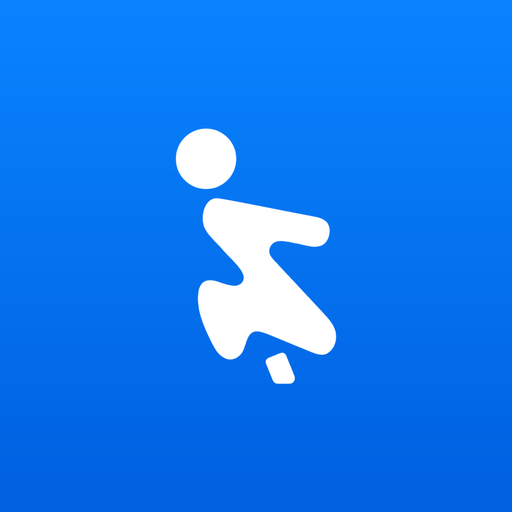
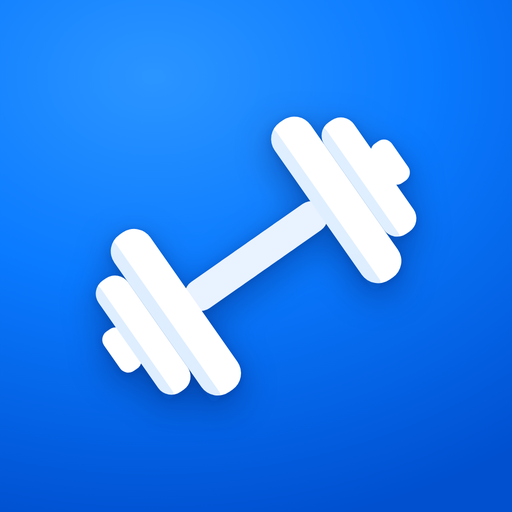
Nouvelle icône (haltère inclinée), animation de lancement assortie, notes permanentes par exercice, planche : 7 s pour changer de côté
Claude-Session: https://claude.ai/code/session_01EZbwpirju8Zs7zQQ7jhSi9

Changed region(s): [[0.125, 0.0312, 0.8125, 0.8125]]

diff --git a/app.js b/app.js
@@ -33,6 +33,7 @@ const ICON = {
   gear: '<svg viewBox="0 0 24 24" width="20" height="20" fill="none" stroke="currentColor" stroke-width="2" stroke-linecap="round" stroke-linejoin="round"><circle cx="12" cy="12" r="3"/><path d="M19.4 15a1.7 1.7 0 0 0 .3 1.8l.1.1a2 2 0 1 1-2.8 2.8l-.1-.1a1.7 1.7 0 0 0-1.8-.3 1.7 1.7 0 0 0-1 1.5V21a2 2 0 1 1-4 0v-.1a1.7 1.7 0 0 0-1.1-1.5 1.7 1.7 0 0 0-1.8.3l-.1.1a2 2 0 1 1-2.8-2.8l.1-.1a1.7 1.7 0 0 0 .3-1.8 1.7 1.7 0 0 0-1.5-1H3a2 2 0 1 1 0-4h.1a1.7 1.7 0 0 0 1.5-1.1 1.7 1.7 0 0 0-.3-1.8l-.1-.1a2 2 0 1 1 2.8-2.8l.1.1a1.7 1.7 0 0 0 1.8.3H9a1.7 1.7 0 0 0 1-1.5V3a2 2 0 1 1 4 0v.1a1.7 1.7 0 0 0 1 1.5 1.7 1.7 0 0 0 1.8-.3l.1-.1a2 2 0 1 1 2.8 2.8l-.1.1a1.7 1.7 0 0 0-.3 1.8V9a1.7 1.7 0 0 0 1.5 1H21a2 2 0 1 1 0 4h-.1a1.7 1.7 0 0 0-1.5 1z"/></svg>',
   plates: '<svg viewBox="0 0 24 24" width="22" height="22" fill="none" stroke="currentColor" stroke-width="2" stroke-linecap="round"><path d="M2 12h20"/><rect x="5" y="5" width="3" height="14" rx="1"/><rect x="16" y="5" width="3" height="14" rx="1"/><rect x="8.5" y="8" width="2" height="8" rx="1"/><rect x="13.5" y="8" width="2" height="8" rx="1"/></svg>',
   more: '<svg viewBox="0 0 24 24" width="22" height="22" fill="currentColor"><circle cx="5.5" cy="12" r="1.9"/><circle cx="12" cy="12" r="1.9"/><circle cx="18.5" cy="12" r="1.9"/></svg>',
+  note: '<svg viewBox="0 0 24 24" width="21" height="21" fill="none" stroke="currentColor" stroke-width="1.8" stroke-linecap="round" stroke-linejoin="round"><path d="M20 12.5c0 3.9-3.6 7-8 7-1.1 0-2.2-.2-3.1-.6L4.5 20l1.2-3.4C4.6 15.4 4 14 4 12.5c0-3.9 3.6-7 8-7s8 3.1 8 7z"/><path d="M8.5 11h7M8.5 14h4.5"/></svg>',
   stopwatch: '<svg viewBox="0 0 24 24" width="20" height="20" fill="none" stroke="currentColor" stroke-width="2" stroke-linecap="round" stroke-linejoin="round"><circle cx="12" cy="13.5" r="7.5"/><path d="M12 13.5V10M10 2.5h4M18.5 6.5l1.2-1.2"/></svg>',
   clock: '<svg viewBox="0 0 24 24" width="22" height="22" fill="none" stroke="currentColor" stroke-width="1.8" stroke-linecap="round" stroke-linejoin="round"><circle cx="12" cy="12" r="8.5"/><path d="M12 7.5V12l3 2"/></svg>',
   x: '<svg viewBox="0 0 24 24" width="16" height="16" fill="none" stroke="currentColor" stroke-width="2.6" stroke-linecap="round"><path d="M6 6l12 12M18 6L6 18"/></svg>',
@@ -67,7 +68,7 @@ const Store = {
 
 // ---------- État ----------
 function defaultState() {
-  return { v: 2, settings: { rest: 90, theme: 'auto', bar: 20, iosTimer: false }, programs: [], activeProgramId: null, customExercises: [], sessions: [], live: null, checks: [], coachVersion: 0 };
+  return { v: 2, exNotes: {}, settings: { rest: 90, theme: 'auto', bar: 20, iosTimer: false }, programs: [], activeProgramId: null, customExercises: [], sessions: [], live: null, checks: [], coachVersion: 0 };
 }
 let S = defaultState();
 // Petite vibration au toucher. iPhone (iOS 18+) : on « touche » un interrupteur invisible, ce qui fait vibrer.
@@ -95,7 +96,7 @@ function celebrate() {
   document.body.appendChild(box); setTimeout(() => box.remove(), 1800);
 }
 // Version de l'appli : doit être la même que VERSION dans sw.js
-const APP_VERSION = 'husofit-v84';
+const APP_VERSION = 'husofit-v85';
 // Mise à jour automatique : si une nouvelle version est en ligne, l'appli se recharge toute seule (données gardées)
 function checkUpdate() {
   if (!/^https?:/.test(location.protocol)) return;
@@ -117,7 +118,7 @@ function save(now = false) { pushSync(); clearTimeout(saveTimer); if (now) retur
 // Passage de l'ancienne version (nutrition, habitudes…) à la version simplifiée
 function migrate(old) {
   const s = defaultState();
-  ['programs', 'activeProgramId', 'customExercises', 'sessions', 'live', 'checks', 'coachVersion'].forEach((k) => { if (old[k] !== undefined && old[k] !== null) s[k] = old[k]; });
+  ['programs', 'activeProgramId', 'customExercises', 'sessions', 'live', 'checks', 'coachVersion', 'exNotes'].forEach((k) => { if (old[k] !== undefined && old[k] !== null) s[k] = old[k]; });
   s.live = old.live || null;
   s.settings = Object.assign(defaultState().settings, old.settings || {});
   if (old.v !== 2) {
@@ -283,6 +284,11 @@ function aiSummaryText() {
   if (ids.length) {
     L.push('PROGRESSION (meilleure série : première fois → dernière fois)');
     ids.forEach((id) => { const a = per[id][0], b = per[id][per[id].length - 1]; L.push(`- ${exById(id).name} : ${kgs(a.kg)} kg × ${a.reps} (${d(a.date)}) → ${kgs(b.kg)} kg × ${b.reps} (${d(b.date)}), ${per[id].length} séance${per[id].length > 1 ? 's' : ''}`); });
+  }
+  const withNotes = Object.keys(S.exNotes || {}).filter((id) => (S.exNotes[id] || []).length);
+  if (withNotes.length) {
+    L.push(''); L.push('MES NOTES PAR EXERCICE');
+    withNotes.forEach((id) => notesFor(id).forEach((n) => L.push(`- ${exById(id).name} (${new Date(n.at).toLocaleDateString('fr-FR')}) : ${n.text.replace(/\s+/g, ' ')}`)));
   }
   return L.join('\n');
 }
@@ -792,7 +798,7 @@ function liveCircuit(idx) {
       const phR = prev ? prev.reps : k > 0 && e.sets[k - 1].reps !== '' ? e.sets[k - 1].reps : (e.repsT || '');
       const h = holdOf(e);
       const meta = h ? (h.sides > 1 ? 'chaque côté' : '') : cleanNote(e.note);
-      html += `<div class="tour-ex"><div class="tour-name"><button class="tn" data-a="exHist" data-e="${i}">${esc(ex.name)}</button>${meta ? `<span class="tm">${esc(meta)}</span>` : ''}${h && !s.done ? `<button class="tour-hold" data-a="holdStart" data-e="${i}" data-s="${k}" aria-label="Lancer le chrono">${ICON.stopwatch}${h.hold} s</button>` : ''}</div>
+      html += `<div class="tour-ex"><div class="tour-name"><button class="tn" data-a="exHist" data-e="${i}">${esc(ex.name)}</button>${noteBtn(e.exId, true)}${meta ? `<span class="tm">${esc(meta)}</span>` : ''}${h && !s.done ? `<button class="tour-hold" data-a="holdStart" data-e="${i}" data-s="${k}" aria-label="Lancer le chrono">${ICON.stopwatch}${h.hold} s</button>` : ''}</div>
         <div class="uf-row${s.done ? ' done' : ''}">
           <label class="uf"><input type="text" inputmode="numeric" id="ls-${i}-${k}-reps" value="${esc(s.reps)}" placeholder="${esc(phR)}" data-in="liveSet" data-e="${i}" data-s="${k}" data-f="reps" aria-label="${h ? 'Secondes' : 'Répétitions'} ${esc(ex.name)} tour ${k + 1}"><span class="u">${h ? 's' : 'reps'}</span></label>
           ${`<label class="uf"><input type="text" inputmode="decimal" id="ls-${i}-${k}-kg" value="${esc(s.kg)}" placeholder="${esc(phKg)}" data-in="liveSet" data-e="${i}" data-s="${k}" data-f="kg" aria-label="Charge ${esc(ex.name)} tour ${k + 1}"><span class="u">kg</span></label>`}
@@ -824,9 +830,12 @@ function liveExCard(e, i) {
   const lastKg = prev.length ? Math.max(...prev.map((x) => num(x.kg) || 0)) : 0;
   const showKg = lastKg || e.kg;
   const meta = [e.target ? esc(e.target) : '', showKg ? `<b>${nf(showKg, 2)} kg</b>` : '', note ? esc(note) : ''].filter(Boolean).join(' · ');
+  const notes = notesFor(e.exId), lastNote = notes[0];
   return `<div class="exc" data-ex="${i}"><div class="hd">${exIcon(ex)}<div class="grow"><h3>${esc(ex.name)}</h3>${meta ? `<div class="meta">${meta}</div>` : ''}</div>
+      ${noteBtn(e.exId)}
       <button class="icon-btn plain" data-a="exHist" data-e="${i}" aria-label="Historique et options">${ICON.clock}</button>
       ${allDone ? `<button class="icon-btn plain" data-a="liveCollapse" data-e="${i}" aria-label="Réduire">${ICON.up}</button>` : ''}</div>
+    ${lastNote ? `<button class="ex-note" data-a="exNotes" data-x="${e.exId}">${ICON.note}<span>${esc(lastNote.text)}</span></button>` : ''}
     <div class="sets uf-sets">${rows}</div>
     ${holdOf(e) && !allDone ? `<button class="btn hold-btn" data-a="holdStart" data-e="${i}">${ICON.stopwatch}Chrono ${holdOf(e).hold} s${holdOf(e).sides > 1 ? ' de chaque côté' : ''}</button>` : ''}
     <button class="link small" data-a="liveAddSet" data-e="${i}" style="align-self:flex-start;padding:0">+ Ajouter une série</button></div>`;
@@ -839,12 +848,45 @@ function exHistSheet(i) {
     render: () => `${sheetHead(esc(ex.name))}
       ${h.length ? `<div class="group">${h.map((x) => cell({ t: fmtShort(x.date), s: x.sets.map((s) => `${s.reps} × ${nf(s.kg, 2)} kg`).join('<br>'), chev: false })).join('')}</div>` : '<div class="empty" style="text-align:center">Pas encore d’historique pour cet exercice.</div>'}
       <div class="group">
+        ${cell({ a: 'exNotes', data: `data-x="${e.exId}"`, t: 'Notes', v: notesFor(e.exId).length ? String(notesFor(e.exId).length) : '' })}
         ${cell({ a: 'platesLive', data: `data-e="${i}"`, t: 'Disques à charger' })}
         ${e.sets.length > 1 ? cell({ a: 'liveDelSet', data: `data-e="${i}"`, t: 'Retirer la dernière série', chev: false }) : ''}
         <button class="cell danger" data-a="liveRemoveEx" data-e="${i}">Retirer de la séance</button>
       </div>`,
   });
 }
+
+// ---------- Notes par exercice : elles restent pour toujours, d'une séance à l'autre ----------
+function notesFor(exId) { return ((S.exNotes || {})[exId] || []).slice().sort((a, b) => b.at - a.at); }
+function noteBtn(exId, small = false) {
+  const n = notesFor(exId).length;
+  return `<button class="icon-btn plain note-btn${n ? ' has' : ''}${small ? ' sm' : ''}" data-a="exNotes" data-x="${exId}" aria-label="Notes${n ? ` (${n})` : ''}">${ICON.note}${n ? `<span class="nb">${n}</span>` : ''}</button>`;
+}
+const fmtNoteDate = (ms) => new Date(ms).toLocaleDateString('fr-FR', { day: 'numeric', month: 'short', year: 'numeric' });
+function notesSheet(exId) {
+  const ex = exById(exId);
+  openSheet({
+    exId,
+    render: () => {
+      const list = notesFor(exId);
+      return `${sheetHead(esc(ex.name))}
+        <div class="note-new"><textarea id="note-new" rows="3" placeholder="Un détail à ne pas oublier : réglage de la machine, placement, sensation…"></textarea>
+        <button class="btn filled block" data-a="noteAdd">Ajouter la note</button></div>
+        ${list.length ? `<div class="section"><div class="section-h">${list.length} note${list.length > 1 ? 's' : ''}</div><div class="group">${list.map((n) => `<button class="cell note-cell" data-a="noteEdit" data-x="${exId}" data-id="${n.id}"><span class="main"><span class="t note-t">${esc(n.text)}</span><span class="s">${fmtNoteDate(n.at)}</span></span></button>`).join('')}</div><div class="section-f">Touche une note pour la modifier ou la supprimer.</div></div>` : '<div class="empty">Pas encore de note pour cet exercice.</div>'}`;
+    },
+  });
+}
+function noteEditSheet(exId, id) {
+  const n = ((S.exNotes || {})[exId] || []).find((x) => x.id === id); if (!n) return;
+  openSheet({
+    exId, noteId: id,
+    render: () => `${sheetHead('Modifier la note')}
+      <div class="note-new"><textarea id="note-edit" rows="5">${esc(n.text)}</textarea>
+      <button class="btn filled block" data-a="noteSave">Enregistrer</button></div>
+      <div class="group"><button class="cell danger" data-a="noteDel">Supprimer la note</button></div>`,
+  });
+}
+function notesChanged() { save(); if (S.live && ui.liveOpen) renderLive(); }
 
 let liveLeaveT = null;
 // Fenêtres du bas : glisser vers le bas pour fermer, comme sur iPhone (depuis la poignée, le titre, ou le haut de la liste)
@@ -1093,7 +1135,7 @@ function holdOf(e) {
   }
   return h ? { hold: h, sides: sides || 1 } : null;
 }
-const SWITCH_SEC = 5;
+const SWITCH_SEC = 7;
 let hold = null, holdTick = null;
 function speak(txt) {
   try { const u = new SpeechSynthesisUtterance(txt); u.lang = 'fr-FR'; u.rate = 1.05; speechSynthesis.cancel(); speechSynthesis.speak(u); } catch (e) { /* rien */ }
@@ -1252,7 +1294,7 @@ function daySheet(dayId) {
     render() {
       const dy = this.dy; if (!dy) return sheetHead('');
       return `${sheetHead(esc(dy.name), '<button class="link b" data-a="dayEdit">Modifier</button>')}
-        <div class="day-pills">${groupAbs(dy.exercises, (e) => `<div class="cell day-row ex-row">${exIcon(exById(e.exId))}<span class="main"><span class="t">${esc(exById(e.exId).name)}</span></span></div>`) || '<div class="empty">Aucun exercice.</div>'}</div>
+        <div class="day-pills">${groupAbs(dy.exercises, (e) => `<button class="cell day-row ex-row" data-a="exNotes" data-x="${e.exId}">${exIcon(exById(e.exId))}<span class="main"><span class="t">${esc(exById(e.exId).name)}</span>${notesFor(e.exId)[0] ? `<span class="s ex-row-note">${esc(notesFor(e.exId)[0].text)}</span>` : ''}</span><span class="row-note${notesFor(e.exId).length ? ' has' : ''}">${ICON.note}${notesFor(e.exId).length ? `<b>${notesFor(e.exId).length}</b>` : ''}</span></button>`) || '<div class="empty">Aucun exercice.</div>'}</div>
         <button class="btn filled block" data-a="startWorkout" data-p="${activeProgram().id}" data-d="${dy.id}">${ICON.play} Commencer</button>`;
     },
   });
@@ -1577,6 +1619,27 @@ const A = {
   progRename() { const p = activeProgram(); textSheet({ title: 'Renommer', label: 'Nom', value: p.name, onOk: (v) => { p.name = v; save(); closeAllSheets(); render(); } }); },
   progDelete() { const p = activeProgram(); confirmSheet({ title: `Supprimer « ${esc(p.name)} » ?`, text: 'Tes séances passées restent dans l’historique.', onOk: () => { S.programs = S.programs.filter((x) => x.id !== p.id); S.activeProgramId = S.programs[0] ? S.programs[0].id : null; save(); closeAllSheets(); render(); } }); },
   sessionOpen(el) { sessionSheet(el.dataset.id); },
+  exNotes(el) { notesSheet(el.dataset.x); },
+  noteAdd() {
+    const ta = $('#note-new'), text = ta ? ta.value.trim() : ''; if (!text) { if (ta) ta.focus(); return; }
+    const exId = topSheet().exId; S.exNotes = S.exNotes || {};
+    (S.exNotes[exId] = S.exNotes[exId] || []).push({ id: uid(), text, at: Date.now() });
+    haptic(); notesChanged(); paintSheet(); toast('Note ajoutée');
+  },
+  noteEdit(el) { noteEditSheet(el.dataset.x, el.dataset.id); },
+  noteSave() {
+    const sh = topSheet(), ta = $('#note-edit'), text = ta ? ta.value.trim() : '';
+    const n = (S.exNotes[sh.exId] || []).find((x) => x.id === sh.noteId); if (!n) return;
+    if (!text) { A.noteDel(); return; }
+    n.text = text; notesChanged(); closeSheet(); paintSheet(); toast('Note modifiée');
+  },
+  noteDel() {
+    const sh = topSheet();
+    confirmSheet({ title: 'Supprimer la note ?', text: 'Elle sera effacée pour de bon.', ok: 'Supprimer', onOk: () => {
+      S.exNotes[sh.exId] = (S.exNotes[sh.exId] || []).filter((x) => x.id !== sh.noteId);
+      notesChanged(); closeSheet(); paintSheet(); toast('Note supprimée');
+    } });
+  },
   calNav(el) {
     const [y, mo] = (ui.calMonth || dkey().slice(0, 7)).split('-').map(Number);
     const d = new Date(y, mo - 1 + Number(el.dataset.v), 1);

diff --git a/styles.css b/styles.css
@@ -1029,3 +1029,29 @@ button.cal-d:active { transform: scale(.92); }
 .tp-ring .bg { stroke: color-mix(in srgb, var(--label) 13%, transparent); }
 
 
+
+/* ---------- Notes par exercice ---------- */
+.note-btn { position: relative; }
+.note-btn.has { color: var(--blue); }
+.note-btn .nb { position: absolute; top: 1px; right: 0; min-width: 16px; height: 16px; padding: 0 4px; border-radius: 8px; background: var(--blue); color: #fff;
+  font-size: 10.5px; font-weight: 700; line-height: 16px; text-align: center; font-variant-numeric: tabular-nums; }
+.note-btn.sm { width: 28px; height: 28px; min-width: 28px; padding: 0; flex-shrink: 0; align-self: center; }
+.note-btn.sm svg { width: 18px; height: 18px; }
+.note-btn.sm .nb { top: -3px; right: -4px; transform: scale(.9); }
+.ex-note { display: flex; align-items: flex-start; gap: 8px; width: 100%; text-align: left; border: 0; font: inherit; cursor: pointer;
+  padding: 9px 12px; border-radius: 12px; background: color-mix(in srgb, #ffd60a 13%, transparent); color: var(--label); font-size: 14px; line-height: 1.35; }
+.ex-note svg { flex-shrink: 0; width: 17px; height: 17px; margin-top: 1px; color: #e0a800; }
+.ex-note span { display: -webkit-box; -webkit-line-clamp: 2; -webkit-box-orient: vertical; overflow: hidden; white-space: pre-wrap; }
+.note-new { display: flex; flex-direction: column; gap: 10px; }
+.note-new textarea { width: 100%; box-sizing: border-box; resize: none; border: 0; outline: none; border-radius: 14px; padding: 12px 14px;
+  background: var(--card); color: var(--label); font: inherit; font-size: 16px; line-height: 1.4; box-shadow: inset 0 0 0 1px var(--sep); }
+.note-new textarea:focus { box-shadow: inset 0 0 0 2px var(--blue); }
+.note-cell { text-align: left; width: 100%; }
+.note-t { white-space: pre-wrap; display: block; line-height: 1.35; }
+button.ex-row { width: 100%; text-align: left; font: inherit; color: inherit; cursor: pointer; }
+.ex-row .ex-row-note { display: block; font-size: 13px; color: var(--label-2); white-space: nowrap; overflow: hidden; text-overflow: ellipsis; max-width: 100%; }
+.ex-row .main { min-width: 0; }
+.row-note { margin-left: auto; display: inline-flex; align-items: center; gap: 3px; color: var(--label-3, rgba(127,127,127,.4)); flex-shrink: 0; font-size: 13px; }
+.row-note svg { width: 19px; height: 19px; }
+.row-note.has { color: var(--blue); }
+.note-btn:not(.has) { color: var(--label-2) !important; }

diff --git a/index.html b/index.html
@@ -30,23 +30,23 @@
 /* Animation de lancement : le personnage fait une flexion, saute, puis l'écran bleu s'efface sur l'appli */
 #intro { position: fixed; inset: 0; z-index: 1000; pointer-events: none; background: linear-gradient(180deg, #0a84ff, #0060e0);
   display: flex; align-items: center; justify-content: center; animation: intro-out .38s cubic-bezier(.4,0,.2,1) .9s forwards; }
-#intro i { display: block; height: 30vmin; aspect-ratio: 1120 / 1728; background: #fff;
-  -webkit-mask: url('icons/logo.png') center / contain no-repeat; mask: url('icons/logo.png') center / contain no-repeat;
-  transform-origin: 50% 100%; animation: intro-jump .9s cubic-bezier(.33,.9,.4,1) both; }
-@keyframes intro-jump {
-  0%, 16% { transform: none; }
-  34% { transform: translateY(3%) scale(1.07, .86); }
-  58% { transform: translateY(-17%) scale(.96, 1.06); }
-  76% { transform: translateY(0) scale(1.04, .95); }
+#intro img { display: block; width: 52vmin; transform-origin: 50% 55%; filter: drop-shadow(0 2.5vmin 4vmin rgba(0,20,80,.3));
+  animation: intro-lift .9s cubic-bezier(.33,.9,.4,1) both; }
+/* L'haltère descend un peu, puis elle est soulevée d'un coup, et se repose */
+@keyframes intro-lift {
+  0%, 14% { transform: none; }
+  34% { transform: translateY(5%) rotate(7deg) scale(.97); }
+  60% { transform: translateY(-13%) rotate(-9deg) scale(1.05); }
+  78% { transform: translateY(0) rotate(2deg) scale(1); }
   100% { transform: none; }
 }
 @keyframes intro-out { to { opacity: 0; transform: scale(1.08); } }
-@media (prefers-reduced-motion: reduce) { #intro { animation: intro-out .3s ease .35s forwards !important; } #intro i { animation: none !important; } }
+@media (prefers-reduced-motion: reduce) { #intro { animation: intro-out .3s ease .35s forwards !important; } #intro img { animation: none !important; } }
 </style>
 
 </head>
 <body>
-<div id="intro" aria-hidden="true"><i></i></div>
+<div id="intro" aria-hidden="true"><img src="icons/logo.svg" alt=""></div>
 <script>setTimeout(function(){var e=document.getElementById("intro");if(e)e.remove();},1400);</script>
 <div class="ambient" aria-hidden="true"></div>
 <main id="main" aria-live="polite"></main>

diff --git a/sw.js b/sw.js
@@ -1,6 +1,6 @@
 // Mode hors ligne : garde l'appli en cache. Change VERSION à chaque mise à jour.
-const VERSION = 'husofit-v84';
-const SHELL = ['./', 'index.html', 'styles.css', 'data.js', 'app.js', 'manifest.webmanifest', 'icons/logo.png', 'icons/apple-touch-icon.png', 'icons/icon-192.png', 'icons/icon-512.png'];
+const VERSION = 'husofit-v85';
+const SHELL = ['./', 'index.html', 'styles.css', 'data.js', 'app.js', 'manifest.webmanifest', 'icons/logo.svg', 'icons/apple-touch-icon.png', 'icons/icon-192.png', 'icons/icon-512.png'];
 
 self.addEventListener('install', (e) => {
   e.waitUntil(caches.open(VERSION).then((c) => c.addAll(SHELL)).then(() => self.skipWaiting()));
